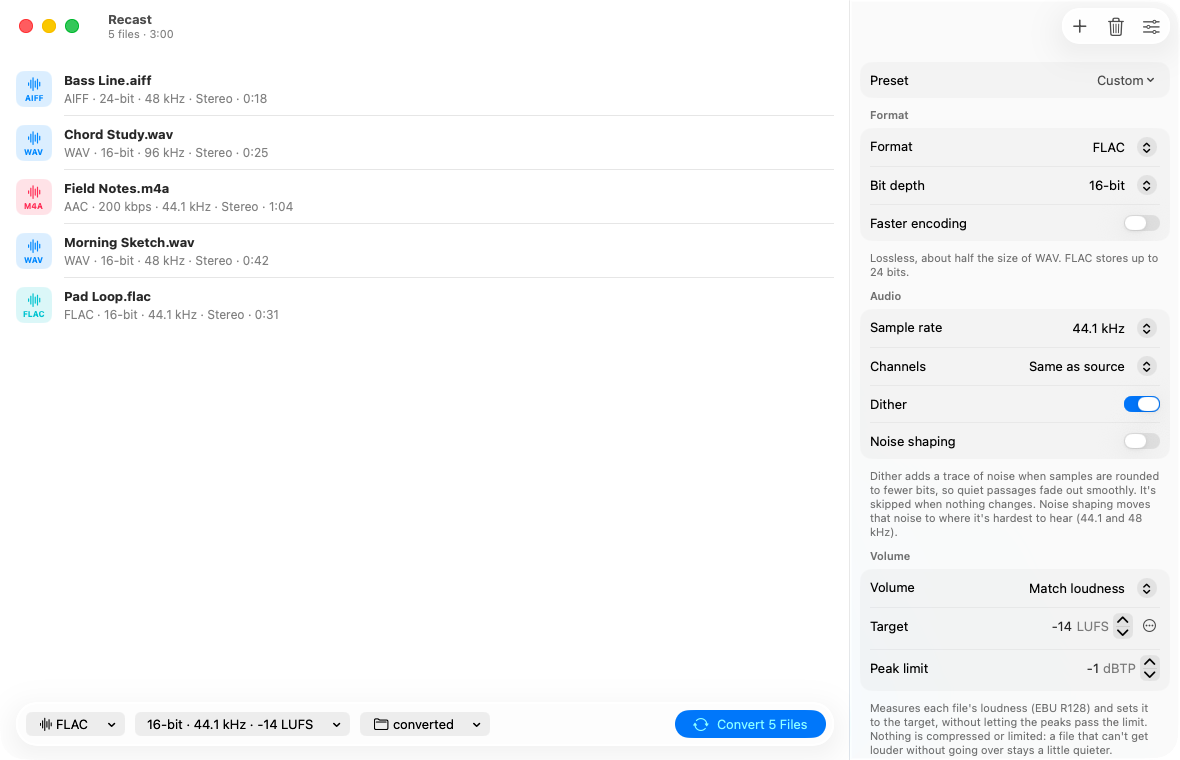
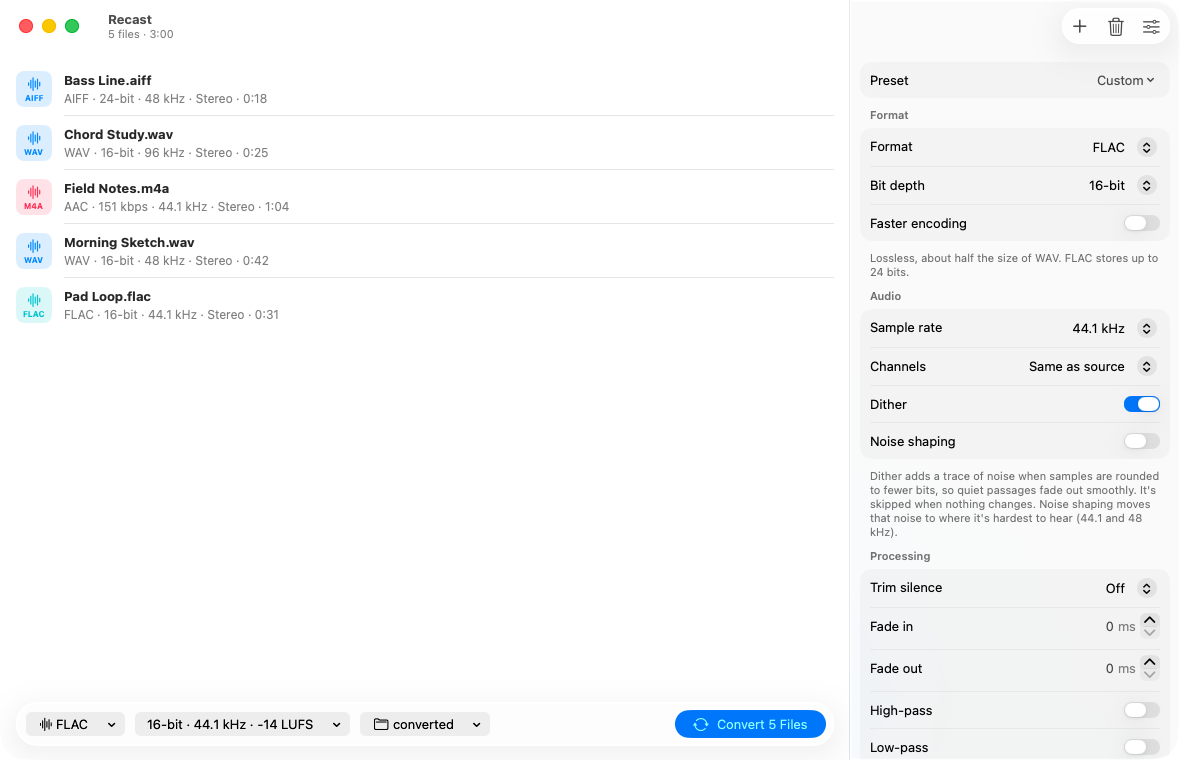
Show the Processing settings in the README; filter switches match the others
- New processing screenshots (light and dark) in the README's Processing section, and
  the settings screenshots retaken now that Processing sits between Audio and Volume.
- The High-pass and Low-pass switches drew as checkboxes; they are switches like the
  rest of the panel now.
- Snapshot mode takes a processing shot scrolled to that section, and
  RECAST_SNAPSHOT_ONLY=<names> retakes only the listed shots, in seconds.

diff --git a/Sources/Recast/Snapshot.swift b/Sources/Recast/Snapshot.swift
@@ -4,12 +4,21 @@ import SwiftUI
 
 /// Development aid: `RECAST_SNAPSHOT=<folder> RECAST_FILES=<a:b:c>` adds the files, saves PNGs of the main states
 /// (light and dark, default and minimum size) into the folder, converts copies into `<folder>/converted` and quits.
-/// Settings are restored afterwards; originals are never touched.
+/// `RECAST_SNAPSHOT_ONLY=<name>,<name>` takes only those shots and skips the waits for the others, so a retake
+/// takes seconds. Settings are restored afterwards; originals are never touched.
 enum Snapshot {
+    nonisolated(unsafe) private static var only: Set<String>?
+
     static func runIfRequested(_ model: AppModel) {
         let environment = ProcessInfo.processInfo.environment
         guard let folder = environment["RECAST_SNAPSHOT"].map({ URL(fileURLWithPath: $0, isDirectory: true) }) else { return }
         let files = (environment["RECAST_FILES"] ?? "").split(separator: ":").map { URL(fileURLWithPath: String($0)) }
+        only = environment["RECAST_SNAPSHOT_ONLY"].map { Set($0.split(separator: ",").map(String.init)) }
+        /// Lets the window settle before a shot, unless that shot isn't wanted.
+        func settle(_ milliseconds: Int, for names: String...) async {
+            guard names.contains(where: wanted) else { return }
+            try? await Task.sleep(for: .milliseconds(milliseconds))
+        }
         Task { @MainActor in
             try? FileManager.default.createDirectory(at: folder, withIntermediateDirectories: true)
             let saved = model.settings, savedInspector = model.showInspector, savedRecent = model.recentFolders
@@ -22,18 +31,18 @@ enum Snapshot {
             NSApp.activate(ignoringOtherApps: true)
             NSApp.windows.first { $0.isVisible }?.makeKeyAndOrderFront(nil)
             resize(860, 560)
-            try? await Task.sleep(for: .seconds(1))
+            await settle(1000, for: "1-empty")
             capture(folder, "1-empty")
 
             model.add(files)
             try? await Task.sleep(for: .milliseconds(300))
             while model.isReading { try? await Task.sleep(for: .milliseconds(100)) }
-            try? await Task.sleep(for: .milliseconds(500))
+            await settle(500, for: "2-list")
             capture(folder, "2-list")
 
             model.showInspector = true
             resize(1180, 760)
-            try? await Task.sleep(for: .milliseconds(800))
+            await settle(800, for: "3-settings-mp3")
             capture(folder, "3-settings-mp3")
             model.settings.format = .flac
             model.settings.flacDepth = .int16
@@ -41,50 +50,77 @@ enum Snapshot {
             model.settings.volume = .loudness
             model.settings.destination = .folder
             model.settings.folderPath = folder.appendingPathComponent("converted").path
-            try? await Task.sleep(for: .milliseconds(600))
+            await settle(800, for: "4-settings-flac")
             capture(folder, "4-settings-flac")
             NSApp.appearance = NSAppearance(named: .darkAqua)
-            try? await Task.sleep(for: .milliseconds(600))
+            await settle(600, for: "4-settings-flac-dark")
             capture(folder, "4-settings-flac-dark")
             NSApp.appearance = NSAppearance(named: .aqua)
             model.settings.format = .aac
             model.settings.aacMode = .vbr
             model.settings.volume = .peak
-            try? await Task.sleep(for: .milliseconds(600))
+            await settle(600, for: "5-settings-aac")
             capture(folder, "5-settings-aac")
 
+            // Processing: same format, cleaned up and levelled, scrolled to the Processing section.
+            model.settings.keepFormat = true
+            model.settings.sampleRate = nil
+            model.settings.trim = .both
+            model.settings.trimThreshold = -50
+            model.settings.fadeInMS = 10
+            model.settings.fadeOutMS = 500
+            model.settings.highPass = true
+            model.settings.removeDC = true
+            model.settings.volume = .loudness
+            model.settings.loudnessTarget = -16
+            model.settings.limiter = true
+            // Taller, so the Volume section with the limiter fits under Processing.
+            resize(1180, 920)
+            await settle(300, for: "12-processing", "12-processing-dark")
+            NotificationCenter.default.post(name: SettingsInspector.scrollRequest, object: "processing")
+            await settle(800, for: "12-processing", "12-processing-dark")
+            capture(folder, "12-processing")
+            NSApp.appearance = NSAppearance(named: .darkAqua)
+            await settle(600, for: "12-processing-dark")
+            capture(folder, "12-processing-dark")
+            NSApp.appearance = NSAppearance(named: .aqua)
+            NotificationCenter.default.post(name: SettingsInspector.scrollRequest, object: "top")
+            resize(1180, 760)
+
             model.showInspector = false
-            try? await Task.sleep(for: .milliseconds(600))
+            await settle(600, for: "6-converting", "7-done")
             resize(860, 560)
-            try? await Task.sleep(for: .milliseconds(400))
+            await settle(400, for: "6-converting", "7-done")
             var convert = ConversionSettings()
             convert.format = .mp3
             convert.destination = .folder
             convert.folderPath = folder.appendingPathComponent("converted").path
             model.settings = convert
-            model.convert()
-            try? await Task.sleep(for: .milliseconds(150))
-            capture(folder, "6-converting")
-            while model.isConverting { try? await Task.sleep(for: .milliseconds(100)) }
-            try? await Task.sleep(for: .milliseconds(500))
+            if ["6-converting", "7-done", "8-done-dark"].contains(where: wanted) {
+                model.convert()
+                try? await Task.sleep(for: .milliseconds(150))
+                capture(folder, "6-converting")
+                while model.isConverting { try? await Task.sleep(for: .milliseconds(100)) }
+            }
+            await settle(500, for: "7-done")
             capture(folder, "7-done")
 
             NSApp.appearance = NSAppearance(named: .darkAqua)
-            try? await Task.sleep(for: .milliseconds(600))
+            await settle(600, for: "8-done-dark")
             capture(folder, "8-done-dark")
             model.showInspector = true
             resize(1180, 760)
-            try? await Task.sleep(for: .milliseconds(700))
+            await settle(700, for: "9-settings-dark")
             capture(folder, "9-settings-dark")
             model.showInspector = false
             model.clear()
-            try? await Task.sleep(for: .milliseconds(500))
+            await settle(500, for: "10-empty-dark")
             capture(folder, "10-empty-dark")
             NSApp.appearance = nil
             model.add(files)
             while model.isReading || model.items.isEmpty { try? await Task.sleep(for: .milliseconds(100)) }
             resize(620, 420)
-            try? await Task.sleep(for: .milliseconds(700))
+            await settle(700, for: "11-minimum-size")
             capture(folder, "11-minimum-size")
 
             model.settings = saved
@@ -102,7 +138,10 @@ enum Snapshot {
         window.setFrame(frame, display: true)
     }
 
+    static func wanted(_ name: String) -> Bool { only?.contains(name) ?? true }
+
     @MainActor static func capture(_ folder: URL, _ name: String) {
+        guard wanted(name) else { return }
         let url = folder.appendingPathComponent(name + ".png")
         guard let window = NSApp.windows.first(where: { $0.isVisible && $0.contentView != nil }) else { return }
         // The real on-screen pixels. AppKit's own rendering can't draw Liquid Glass or the list, so there is no

diff --git a/Sources/Recast/SettingsInspector.swift b/Sources/Recast/SettingsInspector.swift
@@ -6,23 +6,37 @@ import SwiftUI
 struct SettingsInspector: View {
     @Environment(AppModel.self) private var model
 
+    /// Snapshot mode scrolls the panel to a section by posting this with the section's ID ("top" or "processing").
+    static let scrollRequest = Notification.Name("RecastScrollSettings")
+
     var body: some View {
         @Bindable var model = model
+        ScrollViewReader { proxy in
+            form($model.settings)
+                .onReceive(NotificationCenter.default.publisher(for: Self.scrollRequest)) { note in
+                    if let id = note.object as? String { proxy.scrollTo(id, anchor: .top) }
+                }
+        }
+    }
+
+    private func form(_ settings: Binding<ConversionSettings>) -> some View {
         Form {
             Section {
                 LabeledContent("Preset") { PresetMenu() }
             }
-            formatSection($model.settings)
-            audioSection($model.settings)
-            processingSection($model.settings)
-            volumeSection($model.settings)
+            .id("top")
+            formatSection(settings)
+            audioSection(settings)
+            processingSection(settings)
+                .id("processing")
+            volumeSection(settings)
             Section("Tags") {
-                Toggle("Copy tags", isOn: $model.settings.copyTags)
-                Toggle("Copy cover art", isOn: $model.settings.copyArtwork)
-                    .disabled(!model.settings.copyTags)
-                Toggle("Keep original file dates", isOn: $model.settings.keepFileDates)
+                Toggle("Copy tags", isOn: settings.copyTags)
+                Toggle("Copy cover art", isOn: settings.copyArtwork)
+                    .disabled(!settings.wrappedValue.copyTags)
+                Toggle("Keep original file dates", isOn: settings.keepFileDates)
             }
-            outputSection($model.settings)
+            outputSection(settings)
         }
         .formStyle(.grouped)
         .disabled(model.isConverting)
@@ -191,7 +205,7 @@ struct SettingsInspector: View {
             LabeledContent("High-pass") {
                 HStack(spacing: 8) {
                     if value.highPass { NumberField(value: settings.highPassFrequency, range: 10...2000, step: 10, unit: "Hz") }
-                    Toggle("High-pass", isOn: settings.highPass).labelsHidden()
+                    Toggle("High-pass", isOn: settings.highPass).labelsHidden().toggleStyle(.switch)
                 }
             }
             .help("Cuts rumble and handling noise below the frequency (24 dB per octave).")
@@ -199,7 +213,7 @@ struct SettingsInspector: View {
                 HStack(spacing: 8) {
                     if value.lowPass { NumberField(value: Binding(get: { value.lowPassFrequency / 1000 }, set: { settings.wrappedValue.lowPassFrequency = $0 * 1000 }),
                                                  range: 1...40, step: 0.5, unit: "kHz") }
-                    Toggle("Low-pass", isOn: settings.lowPass).labelsHidden()
+                    Toggle("Low-pass", isOn: settings.lowPass).labelsHidden().toggleStyle(.switch)
                 }
             }
             .help("Cuts hiss and everything else above the frequency (24 dB per octave).")

diff --git a/README.md b/README.md
@@ -97,6 +97,11 @@ numbers, comment, lyrics, copyright, ISRC, grouping, BPM, compilation, cover art
 
 ### Processing
 
+<picture>
+  <source media="(prefers-color-scheme: light)" srcset="docs/screenshots/processing.png">
+  <img src="docs/screenshots/processing-dark.png" alt="Five files set to keep their format, with silence trimming, fades, an 80 Hz high-pass, DC offset removal and loudness matching with the limiter">
+</picture>
+
 Optional steps between channel mixing and the volume change, always in this order:
 
 1. **Swap left and right**, **invert polarity**.
